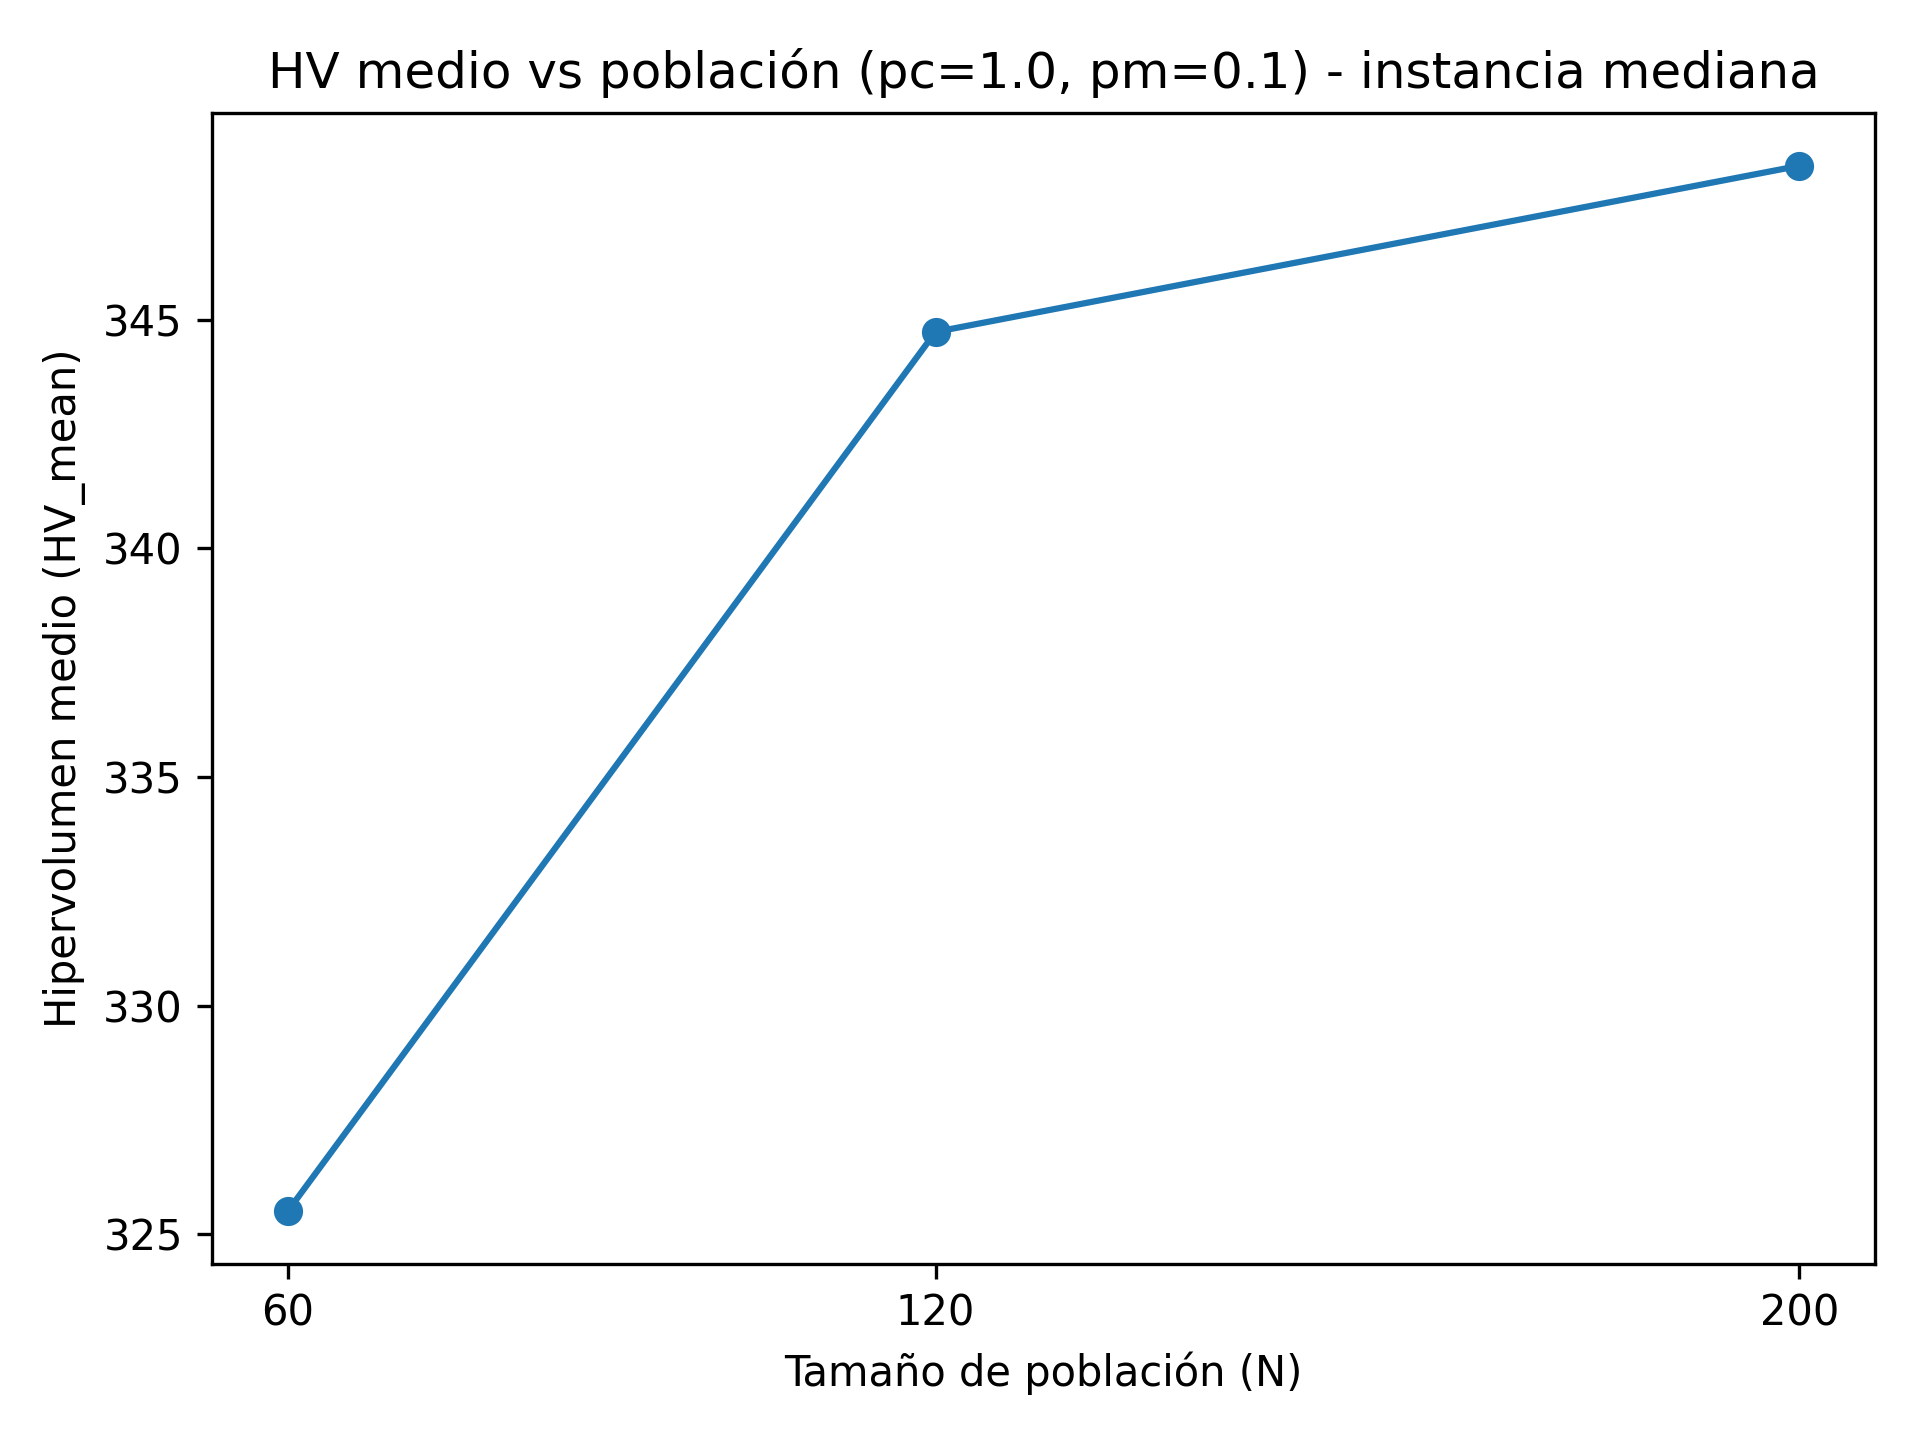
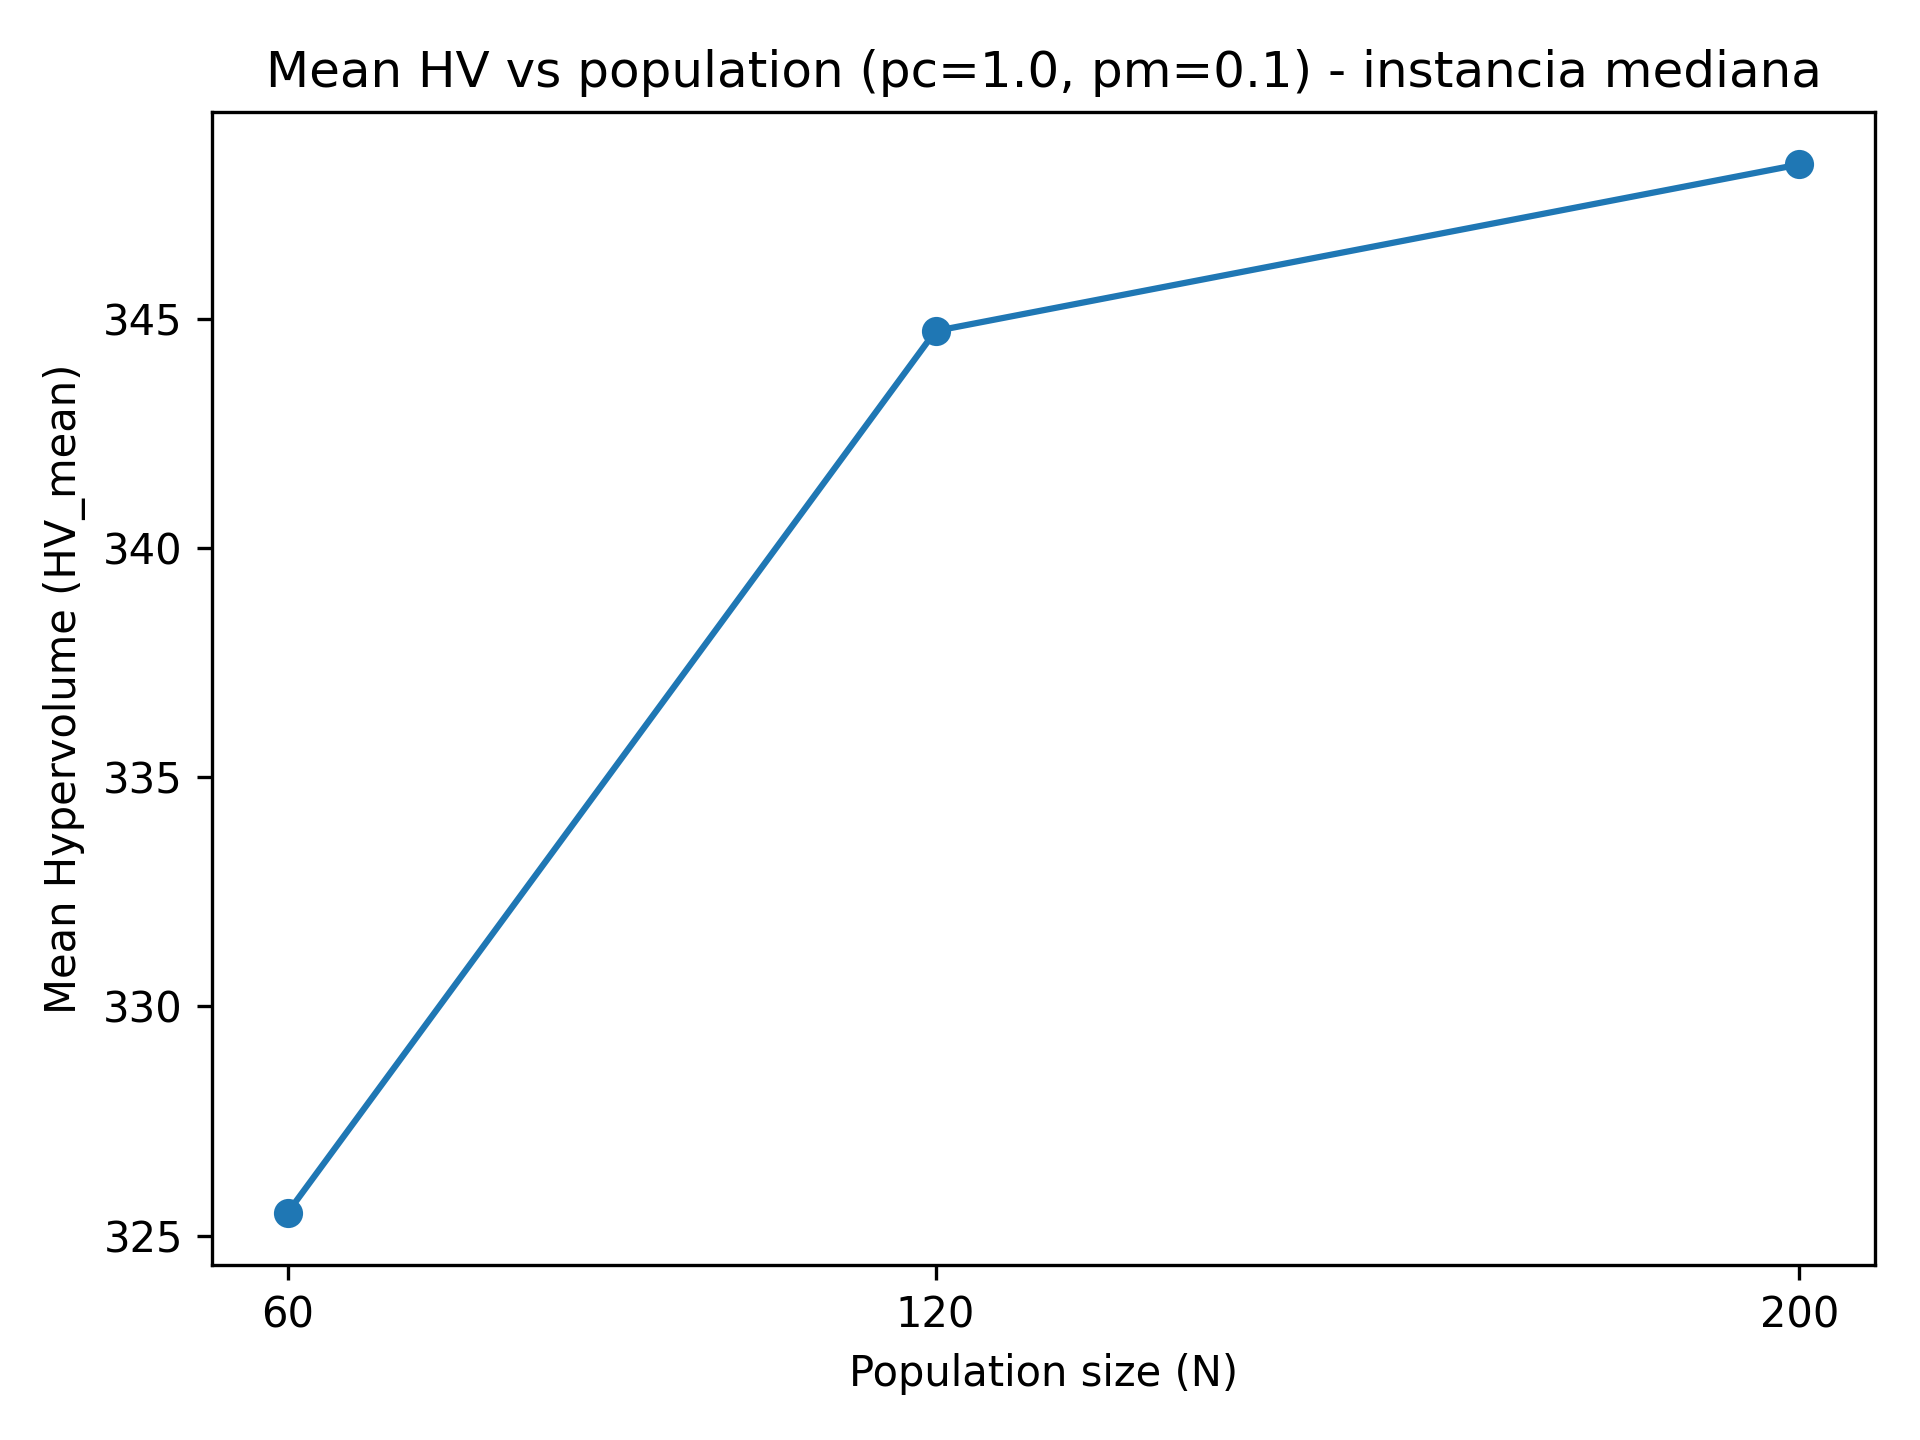
Paso texto de gráficas a Inglés

diff --git a/results/analisis_eval/plot_final_eval.py b/results/analisis_eval/plot_final_eval.py
@@ -33,9 +33,9 @@ def main():
     # grafico de barras de hipervolumen medio
     plt.figure()
     ax1 = pivot_hv.plot(kind="bar")
-    ax1.set_ylabel("Hipervolumen medio (HV_mean)")
-    ax1.set_xlabel("Instancia")
-    ax1.set_title("Hipervolumen medio por instancia y algoritmo")
+    ax1.set_ylabel("Mean Hypervolume (HV_mean)")
+    ax1.set_xlabel("Instance")
+    ax1.set_title("Mean Hypervolume per instance and algorithm")
     plt.xticks(rotation=0)  # nombres de instancias horizontales
     plt.tight_layout()
     plt.savefig("final_eval_hv_mean_bar.png", dpi=300)
@@ -44,9 +44,9 @@ def main():
     # grafico de barras de tiempo medio (ms)
     plt.figure()
     ax2 = pivot_time.plot(kind="bar")
-    ax2.set_ylabel("Tiempo medio (ms)")
-    ax2.set_xlabel("Instancia")
-    ax2.set_title("Tiempo medio de ejecución por instancia y algoritmo")
+    ax2.set_ylabel("Mean Time (ms)")
+    ax2.set_xlabel("Instance")
+    ax2.set_title("Mean execution time per instance and algorithm")
     plt.xticks(rotation=0)
     plt.tight_layout()
     plt.savefig("final_eval_time_mean_bar.png", dpi=300)

diff --git a/results/analisis_tuning/plot_tuning.py b/results/analisis_tuning/plot_tuning.py
@@ -20,9 +20,9 @@ plt.figure()
 plt.scatter(inst_med["time_mean"], inst_med["hv_mean"])
 
 # Etiquetas de ejes y título
-plt.xlabel("Tiempo medio (ms)")
-plt.ylabel("Hipervolumen medio (HV_mean)")
-plt.title("NSGA-II: trade-off HV vs tiempo (instancia mediana)")
+plt.xlabel("Mean Time (ms)")
+plt.ylabel("Mean Hypervolume (HV_mean)")
+plt.title("NSGA-II: trade-off HV vs time (instancia mediana)")
 
 # algunos puntos interesantes (pop 120 y 200)
 configs_to_label = [
@@ -63,9 +63,9 @@ print(subset[["populationSize", "hv_mean", "time_mean"]])
 
 plt.figure()
 plt.plot(subset["populationSize"], subset["hv_mean"], marker="o")
-plt.xlabel("Tamaño de población (N)")
-plt.ylabel("Hipervolumen medio (HV_mean)")
-plt.title(f"HV medio vs población (pc={pc_fix}, pm={pm_fix}) - instancia mediana")
+plt.xlabel("Population size (N)")
+plt.ylabel("Mean Hypervolume (HV_mean)")
+plt.title(f"Mean HV vs population (pc={pc_fix}, pm={pm_fix}) - instancia mediana")
 plt.xticks(subset["populationSize"])
 
 plt.tight_layout()
